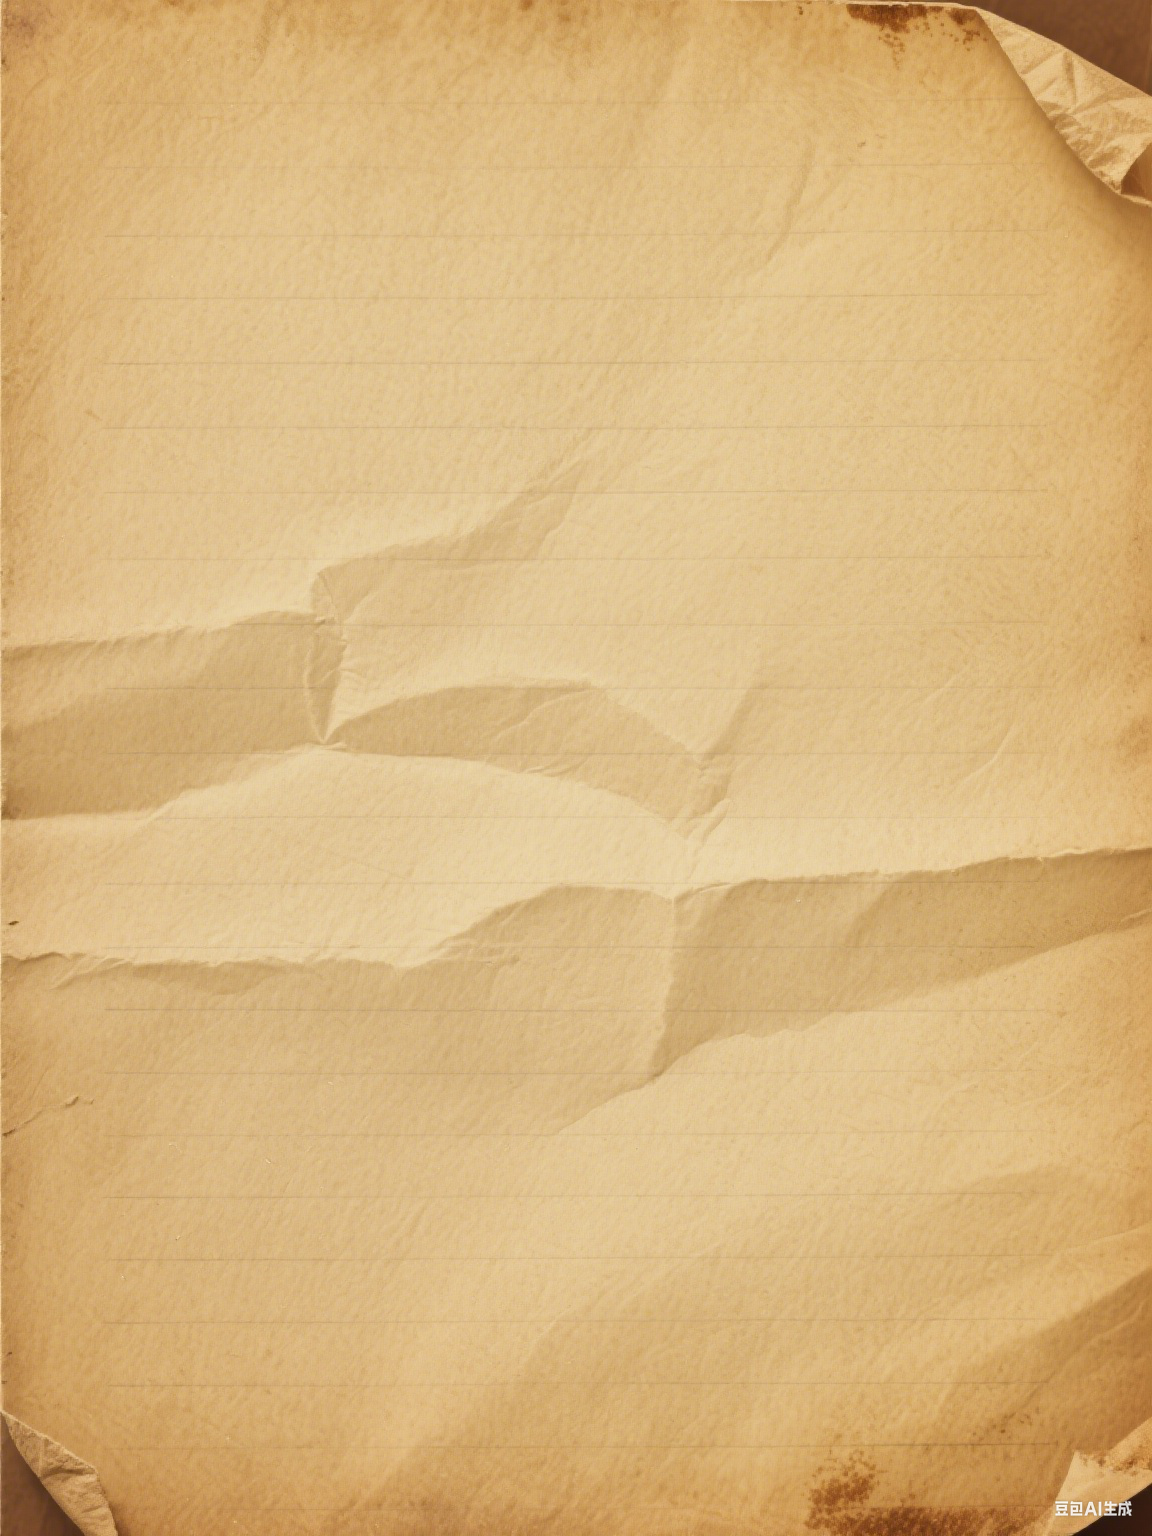
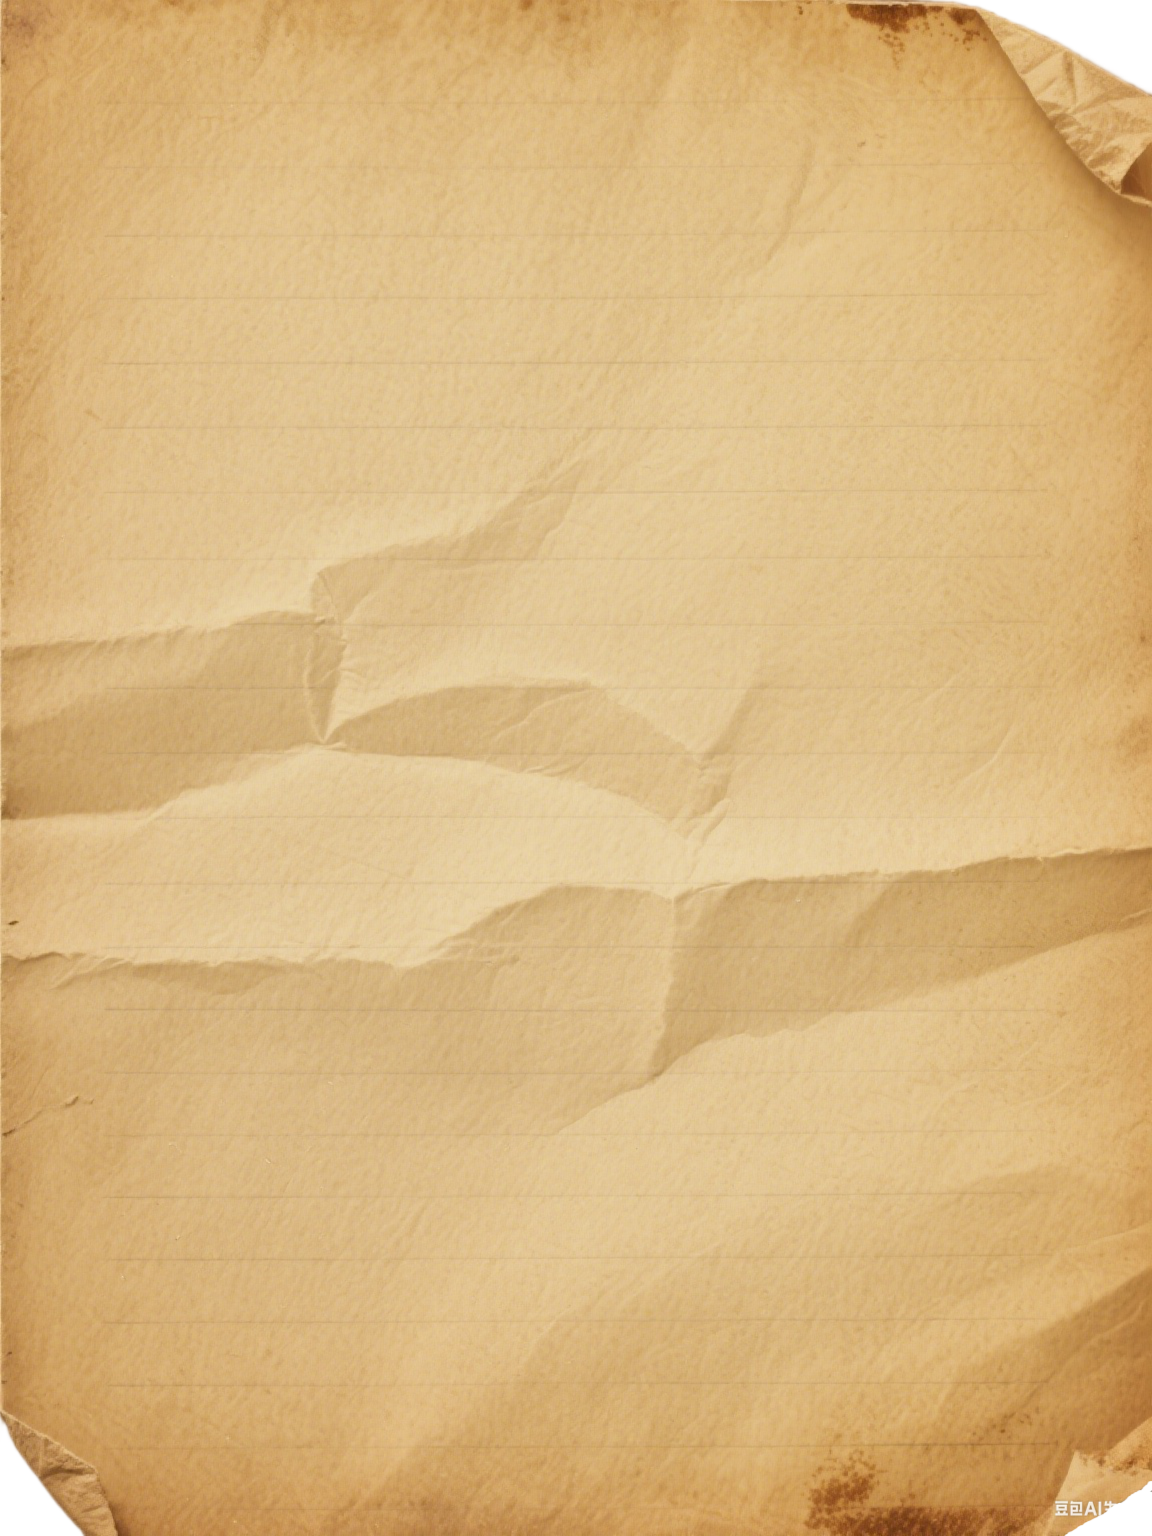
背景图

Changed region(s): [[0.8438, 0.0, 1.0, 0.0625], [0.0, 0.9062, 0.0625, 1.0], [0.9375, 0.9688, 1.0, 1.0]]

diff --git a/src/components/PageContainer.vue b/src/components/PageContainer.vue
@@ -1,6 +1,11 @@
 <template>
-  <div class="page-container">
-    <slot />
+  <div class="page-container" :class="{ 'with-background': $slots.background }">
+    <div v-if="$slots.background" class="background-slot">
+      <slot name="background" />
+    </div>
+    <div class="content-slot">
+      <slot />
+    </div>
   </div>
 </template>
 
@@ -21,6 +26,28 @@
   margin: 0;
   overflow: visible;
   box-sizing: border-box;
+  position: relative;
+}
+
+.page-container.with-background {
+  padding: 0;
+  background: transparent;
+  box-shadow: none;
+}
+
+.background-slot {
+  position: absolute;
+  top: 0;
+  left: 0;
+  right: 0;
+  bottom: 0;
+  z-index: 1;
+}
+
+.content-slot {
+  position: relative;
+  z-index: 2;
+  padding: 2rem;
 }
 
 /* 响应式设计 */

diff --git a/src/views/about/AboutView.vue b/src/views/about/AboutView.vue
@@ -1,5 +1,9 @@
 <template>
   <PageContainer>
+    <template #background>
+      <div class="about-background"></div>
+    </template>
+
     <div class="about-content">
       <!-- 第一个盒子：个人信息和3D模型 -->
       <div class="main-section">
@@ -33,8 +37,18 @@ import ProfileCard from '@/views/about/ProfileCard.vue'
 </script>
 
 <style scoped>
+.about-background {
+  width: 100%;
+  height: 100%;
+  background-image: url('@/assets/images/selfback.png');
+  background-size: 100% 100%;
+  background-position: center;
+  background-repeat: no-repeat;
+}
+
 .about-content {
   max-width: 100%;
+  min-height: 100vh;
 }
 
 /* 主区域：左右分栏 */
